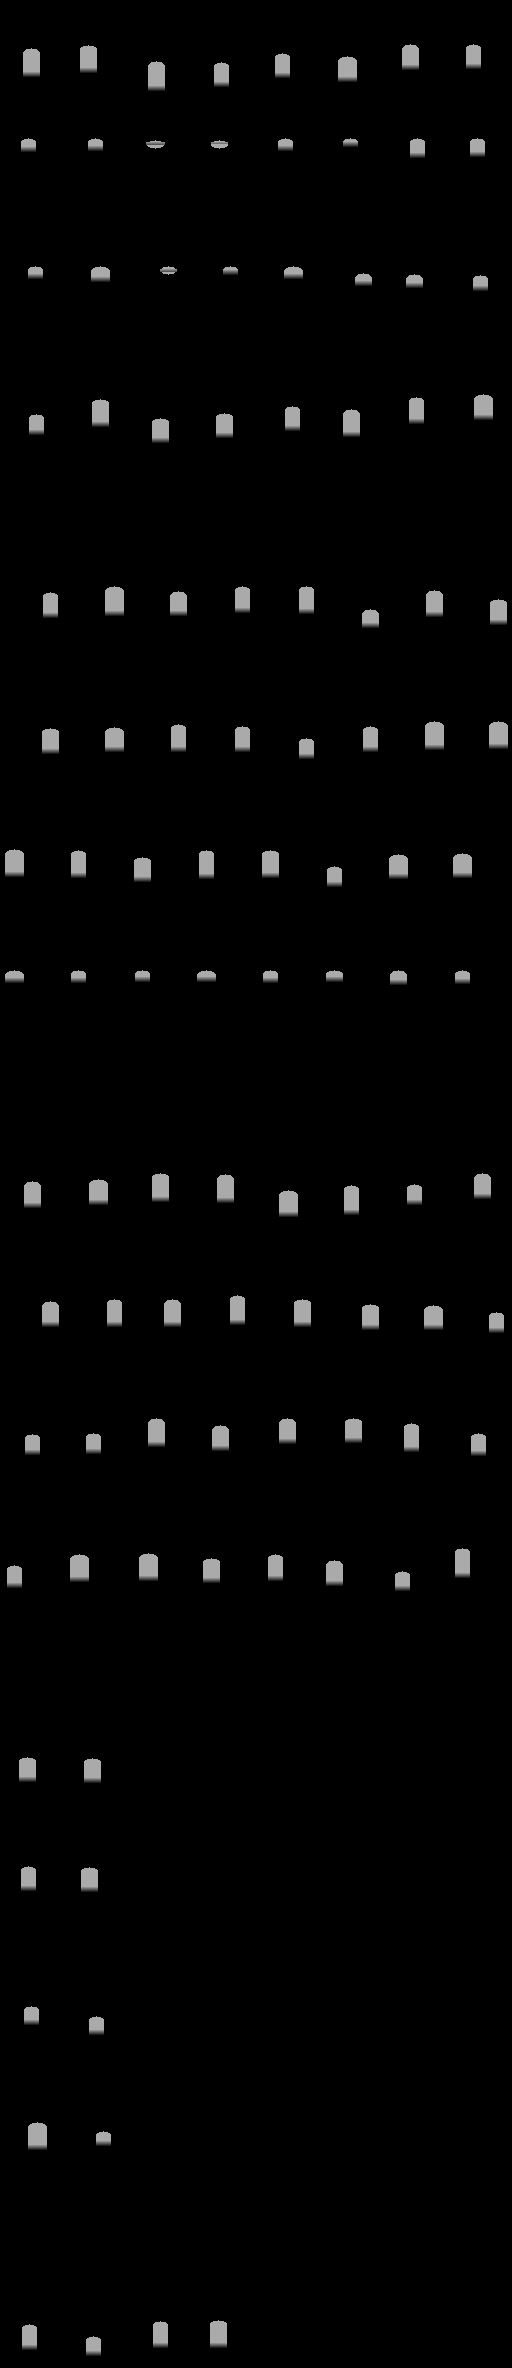
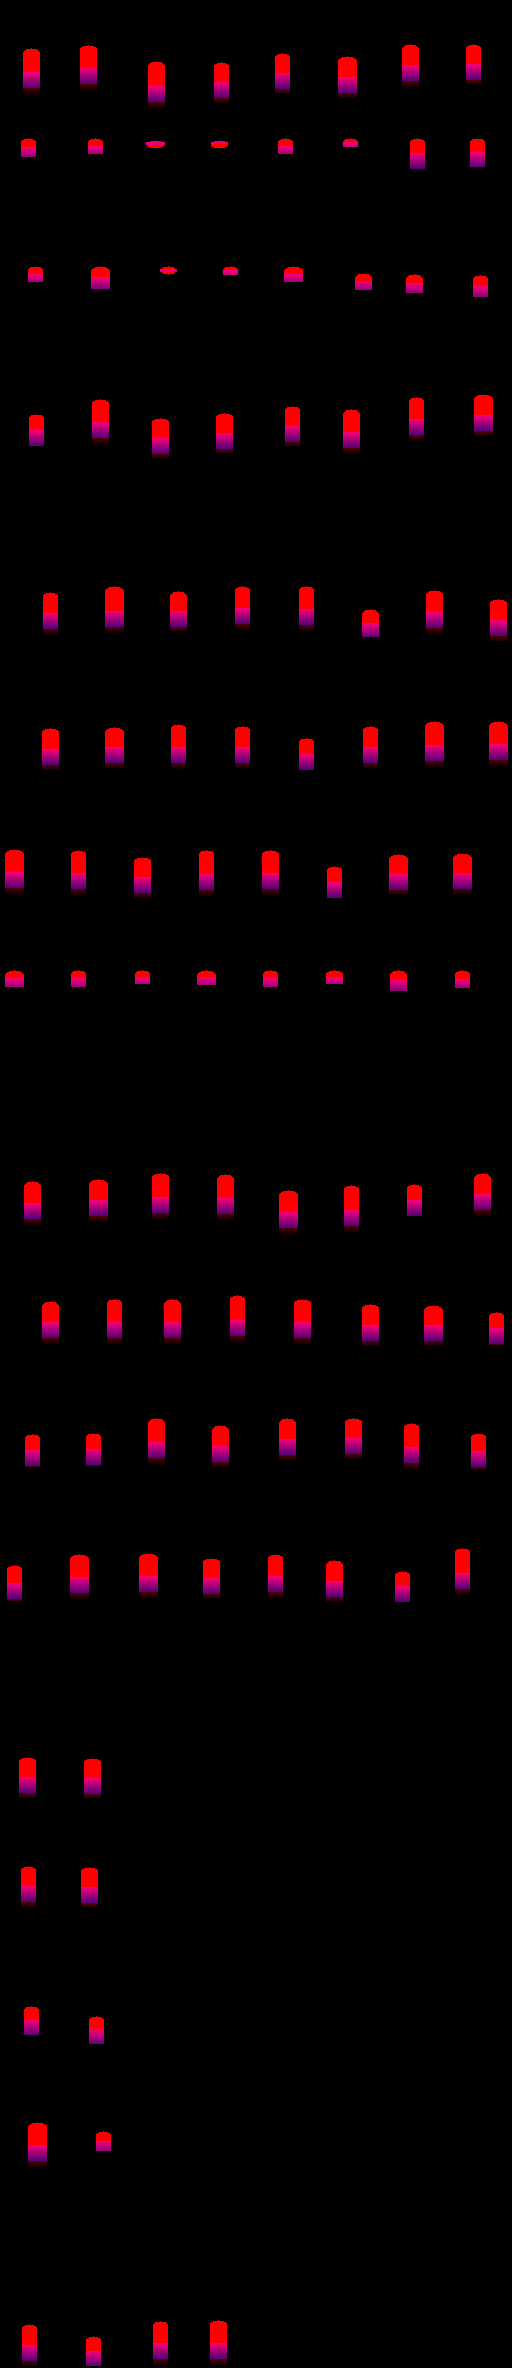
Mask rebuilt in vanilla's channel-packed format (the ghost post fix)
water-dirt-mask.png is not grayscale: R = dryness (255 over the art,
feathering below), B = a narrow waterline/lap band at the art's lower
fringe, G = always 0. My gray masks wrote 170 into all channels - B=170
over whole crowns made the shader render its large lap geometry across
every post (the very-large ghost post), and G=170 is a state vanilla
never produces.

pilings-mask.png now: R = 255 over crowns feathering below the
waterline; B = a 16px lap band at each post's waterline; G = 0.
Headless validation blocked by the running game; art-only change plus
a comment, load risk nil.

diff --git a/tools/gen-placeholders.py b/tools/gen-placeholders.py
@@ -5,13 +5,14 @@
   pilings-exp.png  experiment posts (exp-1 and exp-2): 2/3 size, wood rings on the
                    cut faces, softer shading (anti-"barcode"), north-facing posts
                    shifted half a tile south so the tops sit closer to the planks
-  pilings-mask.png water-effect strength mask for exp-2: 170 over the post crowns
-                   (fully dry - sprite shows crisp), a 170->0 gradient at the
-                   crown/foot line (the shader draws its waterline wrap there =
-                   lapping), 0 everywhere else (water renders normally).
-                   POLARITY (measured + in-game confirmed): value = DRYNESS /
-                   water suppression. v1 had this inverted (170 = water) which
-                   blacked out the tile and filled the posts with water.
+  pilings-mask.png exp-2's water-effect mask in vanilla's CHANNEL-PACKED format
+                   (decoded from water-dirt-mask.png): R = dryness (255 = fully
+                   dry over the crowns, feathering out below the waterline),
+                   B = the waterline/lap zone (a narrow band at each post's
+                   waterline so the shader wraps water around it), G = always 0.
+                   v1/v2 wrote gray into all channels incl. G - the B=170 over
+                   whole crowns rendered the shader's large lap geometry as a
+                   very-large ghost post; G=170 never occurs in vanilla.
 
 Sheet structure (decoded from base): 64px columns = one slot per tile edge;
 bands at y 0/576/1152/1728 hold 8 columns x 4 rotation rows of 64x128 pieces;
@@ -44,7 +45,10 @@ EXP = dict(w=16, hmin=40, hmax=50, jpos=3, foot=115.0, seed=41000,
            wf=0.18, wfac=0.72, rings=True)
 
 FOAM = np.array([205, 226, 232], np.float32)
-DRY = 170.0       # mask value = fully dry (vanilla's own maximum)
+DRY = 255.0       # R channel: fully dry (vanilla uses 255 over its own art)
+LAP = 120.0       # B channel: waterline wrap intensity (vanilla's lap band ~76-142)
+LAP_H = 16        # lap band height (px)
+FEATHER = 24      # dryness feather below the waterline (px)
 FOAM_RINGS = ((22, 9, 70), (14, 6, 110))  # (rx, ry, alpha); clipped to piece cells
 
 van = np.asarray(Image.open(BASE + "landfill.png").convert("RGBA")).astype(np.float32)
@@ -89,7 +93,8 @@ def draw_post(cv, px, base_y, y_min, h, w, p):
 
 def gen(p, out, mask_out=None):
     art = np.zeros((2368, 3200, 4), np.float32)
-    mask = np.zeros((2368, 512), np.float32) if mask_out else None
+    mask = np.zeros((2368, 512, 3), np.float32) if mask_out else None
+    n = 0
     n = 0
     for y0, cols, ch, rows in BANDS:
         for r in range(rows):
@@ -115,23 +120,25 @@ def gen(p, out, mask_out=None):
                         draw_foam(art, bx + dx, by, rx, ry, fa, clip)
                     draw_post(art, bx + dx, by, ry0, h, w, p)
                 if mask is not None:
-                    # crown = fully dry; short DRY->0 gradient at the crown/foot line
-                    # so the shader draws its waterline wrap around each post
+                    # R = dryness: 255 over the crown, feathering below the waterline
+                    # B = narrow lap band at the waterline (shader wraps water there)
+                    # G = 0 always (vanilla never writes it)
                     rx = w / 2.0; ry = max(int(rx * 0.55), 3)
                     cy_cap = top + ry
                     xa, xb = max(bx - int(rx), 0), min(bx + int(rx) + 1, 512)
                     for dy in range(-ry, ry + 1):
                         hw = int(rx * math.sqrt(max(1.0 - (dy / ry) ** 2, 0.0)))
-                        mask[cy_cap + dy, max(bx - hw, 0):min(bx + hw + 1, 512)] = DRY
+                        mask[cy_cap + dy, max(bx - hw, 0):min(bx + hw + 1, 512), 0] = DRY
                     mid = int(by - h * 0.5)
-                    mask[top + ry:mid, xa:xb] = DRY
-                    for i, y in enumerate(range(mid, min(mid + 6, int(by)))):
-                        mask[y, xa:xb] = DRY * (1 - (i + 1) / 6.0)
+                    mask[top + ry:mid, xa:xb, 0] = DRY
+                    for i, y in enumerate(range(mid, min(mid + FEATHER, int(by)))):
+                        mask[y, xa:xb, 0] = DRY * (1 - (i + 1) / FEATHER)
+                    mask[mid:min(mid + LAP_H, int(by)), xa:xb, 2] = LAP
                 n += 1
     Image.fromarray(art.clip(0, 255).astype(np.uint8), "RGBA").save(out)
     if mask is not None:
         m = np.zeros((2368, 512, 4), np.float32)
-        m[..., 0] = m[..., 1] = m[..., 2] = mask
+        m[..., :3] = mask
         m[..., 3] = 255.0
         Image.fromarray(m.clip(0, 255).astype(np.uint8), "RGBA").save(mask_out)
     print(f"{out}: {n} posts" + (f" (+ {mask_out})" if mask_out else ""))
